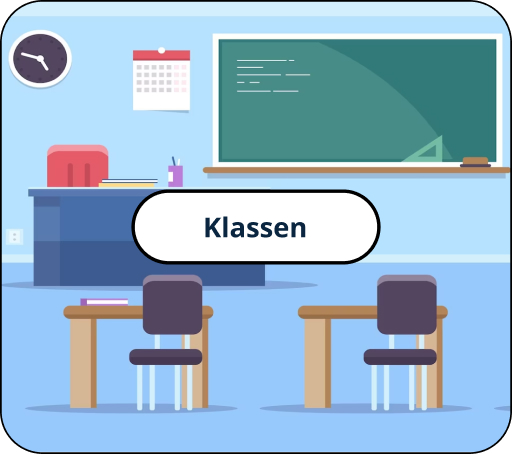
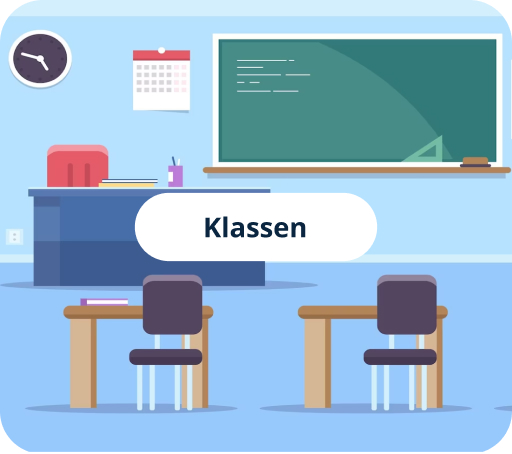
save jest responsif mobile

diff --git a/public/assets/css/main.css b/public/assets/css/main.css
@@ -23,25 +23,87 @@ ul{
 
 .category{
     display: flex;
-    gap: 4rem;
     justify-content: center;
     padding-top: 2rem;
-
+    flex-wrap: wrap;
+gap: 1rem;
 }
+
+.category a{
+    width: 20rem;
+}
+
+@media (min-width: 50rem) {
+    .category a{
+        width: 16rem;
+    }
+    .category{
+        display: flex;
+        justify-content: space-between;
+        padding-top: 2rem;
+        flex-wrap: wrap;
+        gap: 0;
+    }
+}
+
 
 .category-item{
     list-style: none;
 }
 .category-item img{
     border-radius: 1.1875rem;
+    border: 2px solid black;
 }
 
 .head-box{
     display: flex;
+    max-width: 65rem;
+    margin: 0 auto;
+    padding: 1rem;
+    justify-content: space-between;
+    align-items: center;
+    flex-wrap: wrap;
+    justify-content: center;
 }
+
+@media (min-width: 50rem) {
+    .head-box{
+        justify-content: space-between;
+    }
+}
+
+.logo__head{
+    min-width: 200px
+}
+
 body{
-    background-color: bisque;
+    background-color: #194874;
+    overflow-x: hidden;
 }
+
+.background__right{
+    position: absolute;
+    width: 1293px;
+    height: 1293px;
+    left: 598px;
+    top: -589px;
+    background: #1C3D5B;
+    border-radius: 50%;
+    z-index: -1
+    ;
+}
+
+.background__left{
+    position: absolute;
+width: 1293px;
+height: 1293px;
+left: -883px;
+top: 194px;
+border-radius: 50%;
+z-index: -1;
+background: #1C3D5B;
+}
+
 button{
     background: #FFFFFF;
     border: 2px solid #FFFFFF;
@@ -56,8 +118,9 @@ button{
 }
 
 .home__space-area{
-    max-width: 50rem;
+    max-width: 65rem;
     margin: 0 auto;
+    padding: 1rem;
 }
 
 
@@ -77,3 +140,20 @@ button{
     max-width: 200px;
     max-height: 200px;
   }
+
+  .avatarsContainer img{
+    border-radius: 50%;
+    border: 1px solid white;
+  }
+
+  .avatarsContainer{
+    width: 3rem;
+  }
+
+  .nav-button{
+    display: flex;
+    align-items: center;
+    gap: 1rem;
+  }
+
+

diff --git a/public/assets/css/login.css b/public/assets/css/login.css
@@ -39,6 +39,7 @@ font-size: .9375rem;
     display: flex;
     justify-content: center;
     align-items: center;
+    overflow-x: hidden;
 }
 
 .login__text p{
